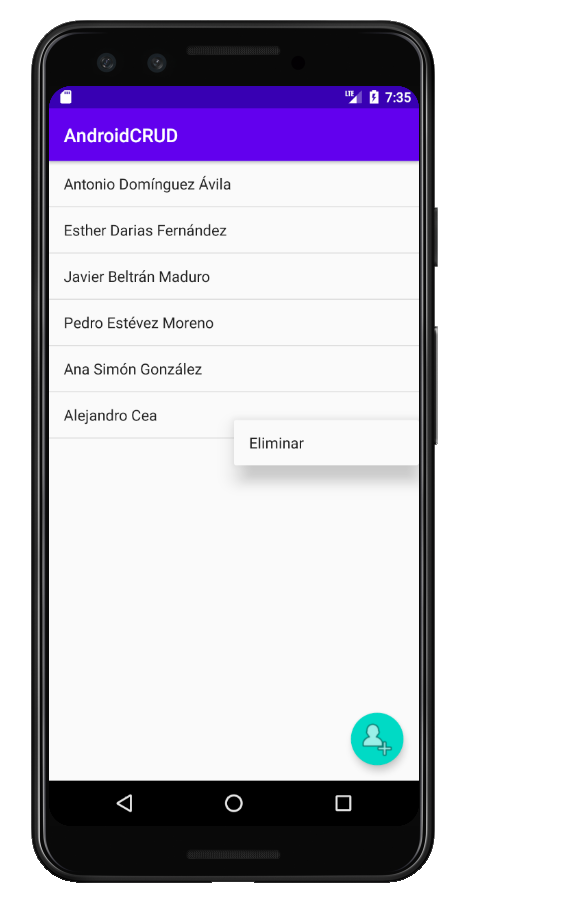
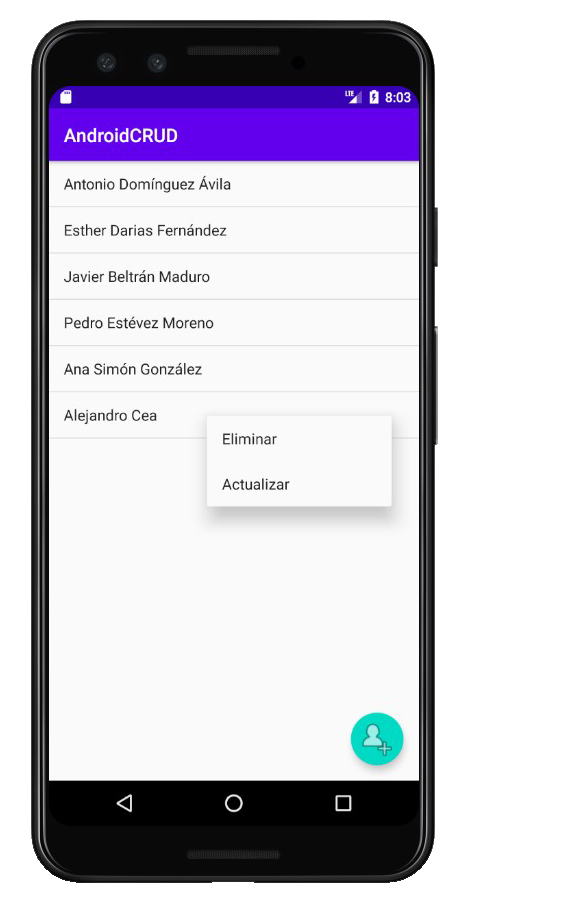
Actualizacion con el update

diff --git a/app/src/main/java/com/alejandro/androidcrud/MainActivity.java b/app/src/main/java/com/alejandro/androidcrud/MainActivity.java
@@ -4,6 +4,7 @@ import androidx.appcompat.app.AlertDialog;
 import androidx.appcompat.app.AppCompatActivity;
 
 import android.content.DialogInterface;
+import android.content.SyncStatusObserver;
 import android.os.Bundle;
 import android.view.ContextMenu;
 import android.view.LayoutInflater;
@@ -15,6 +16,7 @@ import android.widget.ArrayAdapter;
 import android.widget.Button;
 import android.widget.EditText;
 import android.widget.ListView;
+import android.widget.TextView;
 import android.widget.Toast;
 
 import com.google.android.material.floatingactionbutton.FloatingActionButton;
@@ -25,7 +27,7 @@ public class MainActivity extends AppCompatActivity {
 
     private ArrayList<String> listaNombres = new ArrayList<>();
     private ArrayAdapter<String> adapter;
-    private Button button_aceptarCrearUsuario, button_cancelarCrearUsuario;
+    private Button button_aceptarCrearUsuario, button_cancelarCrearUsuario, button_aceptarActualizarUsuario, button_cancelarUpdateUsuario;
     private FloatingActionButton button_insertFlotante;
     private EditText nombreInsertado;
 
@@ -48,8 +50,6 @@ public class MainActivity extends AppCompatActivity {
         listViewNombres.setAdapter(adapter);
         listViewNombres.setTextFilterEnabled(true);
         registerForContextMenu(listViewNombres);
-
-
 
         button_insertFlotante = findViewById(R.id.buttonInsertarFlotante);
         button_insertFlotante.setOnClickListener(new View.OnClickListener() {
@@ -89,6 +89,39 @@ public class MainActivity extends AppCompatActivity {
         dialogBuilder.show();
     }
 
+    public void updateUser(final String nombre, final int idPersona){
+        final AlertDialog dialogBuilder = new AlertDialog.Builder(this).create();
+        LayoutInflater inflater = this.getLayoutInflater();
+        View view = inflater.inflate(R.layout.alert_update, null);
+
+        final TextView textoPersona = view.findViewById(R.id.actualizarPersona);
+        textoPersona.setText(nombre);
+
+
+        button_aceptarActualizarUsuario = view.findViewById(R.id.button_aceptar_actualizar_user);
+        button_aceptarActualizarUsuario.setOnClickListener(new View.OnClickListener() {
+            @Override
+            public void onClick(View view) {
+                listaNombres.set( idPersona, textoPersona.getText().toString());
+                adapter.notifyDataSetChanged();
+                dialogBuilder.dismiss();
+                //Toast.makeText(getApplicationContext(), "Actualizado " + nombreInsertado.getText().toString(), Toast.LENGTH_SHORT).show();
+
+            }
+        });
+
+        button_cancelarUpdateUsuario = view.findViewById(R.id.button_cancelarActualizarUsuario);
+        button_cancelarUpdateUsuario.setOnClickListener(new View.OnClickListener() {
+            @Override
+            public void onClick(View view) {
+                dialogBuilder.dismiss();
+            }
+        });
+
+        dialogBuilder.setView(view);
+        dialogBuilder.show();
+    }
+
     @Override
     public void onCreateContextMenu(ContextMenu menu_usuario, View view, ContextMenu.ContextMenuInfo menuInfo) {
         MenuInflater menuInflater = getMenuInflater();
@@ -99,6 +132,7 @@ public class MainActivity extends AppCompatActivity {
     public boolean onContextItemSelected(MenuItem menuItem) {
         AdapterView.AdapterContextMenuInfo menuInfo = (AdapterView.AdapterContextMenuInfo) menuItem.getMenuInfo();
         final String nombre = (listaNombres.get((int) menuInfo.id));
+        int idPersona = ((AdapterView.AdapterContextMenuInfo) menuItem.getMenuInfo()).position;
 
         switch (menuItem.getItemId()) {
             case R.id.borrar_usuario:
@@ -116,6 +150,10 @@ public class MainActivity extends AppCompatActivity {
                         .setNegativeButton("No", null)
                         .show();
 
+                return true;
+            case R.id.actualizar_usuario:
+                    System.out.println(idPersona + "  AAAAAAAAAAAAAAAAAAAAQUIIIIIIIIIIIIIIIIIIIIIIIIIIIIIIIIIIIIIII");
+                    updateUser(nombre, idPersona);
                 return true;
             default:
                 return super.onContextItemSelected(menuItem);

diff --git a/README.md b/README.md
@@ -3,33 +3,46 @@
 ## Descripción
 Proyecto Android, realización de un CRUD simple.
 En él podemos encontrar un botón estilo Floating Action Button, donde podremos añadir personas al ListView a través de un RelativeLayout.
-Para borrar, mantenemos pulsado encima del nombre de la persona que queremos borrar, nos aparecerá un ContextView, con la opción de eliminar, la seleccionamos, y nos saldrá una alerta, avisando de si estamos seguros de querer borrar a la persona.
+Para borrar, mantenemos pulsado encima del nombre de la persona que queremos borrar, nos aparecerá un ContextView, con la opción de eliminar y actualizar, seleccionamos borrar, y nos saldrá una alerta, avisando de si estamos seguros de querer borrar a la persona.
+Para actualizar, mantenemos pulsado encima del nombre de la persona que queremos y nos aparecerá un ContextView, con la opción de eliminar y actualizar, seleccionamos actualizar y nos saldrá un RelativeLayout donde podremos editar la persona.
 
 ## Creado con
 - [Android Studio](https://developer.android.com/studio)
 - [Java](https://www.java.com/es/download/)
 
 ## Capturas de pantalla
-MainActivity:
-<img src="assets/images/Screenshot_1.png" width="239" height="470">
+<p>MainActivity:</p>
+<img src="assets/images/Screenshot_1.png" width="282" height="454">
 
-Pulsando el Floating Action Button nos saldría para añadir personas:
-<img src="assets/images/Screenshot_2.png" width="239" height="470">
+<p>Pulsando el Floating Action Button nos saldría para añadir personas:</p>
+<img src="assets/images/Screenshot_2.png" width="282" height="454">
 
-Escribimos el nombre de la persona y pulsamos "Aceptar":
-<img src="assets/images/Screenshot_3.png" width="239" height="470">
+<p>Escribimos el nombre de la persona y pulsamos "Aceptar":</p>
+<img src="assets/images/Screenshot_3.png" width="282" height="454">
 
-Nombre de la persona insertada con mensaje Toast:
-<img src="assets/images/Screenshot_4.png" width="239" height="470">
+<p>Nombre de la persona insertada con mensaje Toast:</p>
+<img src="assets/images/Screenshot_4.png" width="282" height="454">
 
-Mantenemos pulsado en el nombre y seleccionamos "Eliminar":
-<img src="assets/images/Screenshot_5.png" width="239" height="470">
+<p>Mantenemos pulsado en el nombre y seleccionamos "Eliminar":</p>
+<img src="assets/images/Screenshot_5.png" width="282" height="454">
 
-Nos saldrá una alerta de si estamos seguros, le decimos que si en nuestro caso:
-<img src="assets/images/Screenshot_6.png" width="239" height="470">
+<p>Nos saldrá una alerta de si estamos seguros, le decimos que si en nuestro caso:</p>
+<img src="assets/images/Screenshot_6.png" width="282" height="454">
 
-Persona eliminada y con un mensaje Toast:
-<img src="assets/images/Screenshot_7.png" width="239" height="470">
+<p>Persona eliminada y con un mensaje Toast:</p>
+<img src="assets/images/Screenshot_7.png" width="282" height="454">
+
+<p>Mantenemos pulsado en el nombre y seleccionamos "Actualizar":</p>
+<img src="assets/images/Screenshot_11.png" width="282" height="454">
+
+<p>Nos saldrá la persona que seleccionamos:</p>
+<img src="assets/images/Screenshot_8.png" width="282" height="454">
+
+<p>Le cambiamos uno de los apellidos y actualizamos con el botón aceptar:</p>
+<img src="assets/images/Screenshot_9.png" width="282" height="454">
+
+<p>Comprobamos que se ha actualizado correctamente:</p>
+<img src="assets/images/Screenshot_10.png" width="282" height="454">
 
 ## Autores
 - Alejandro Cea
